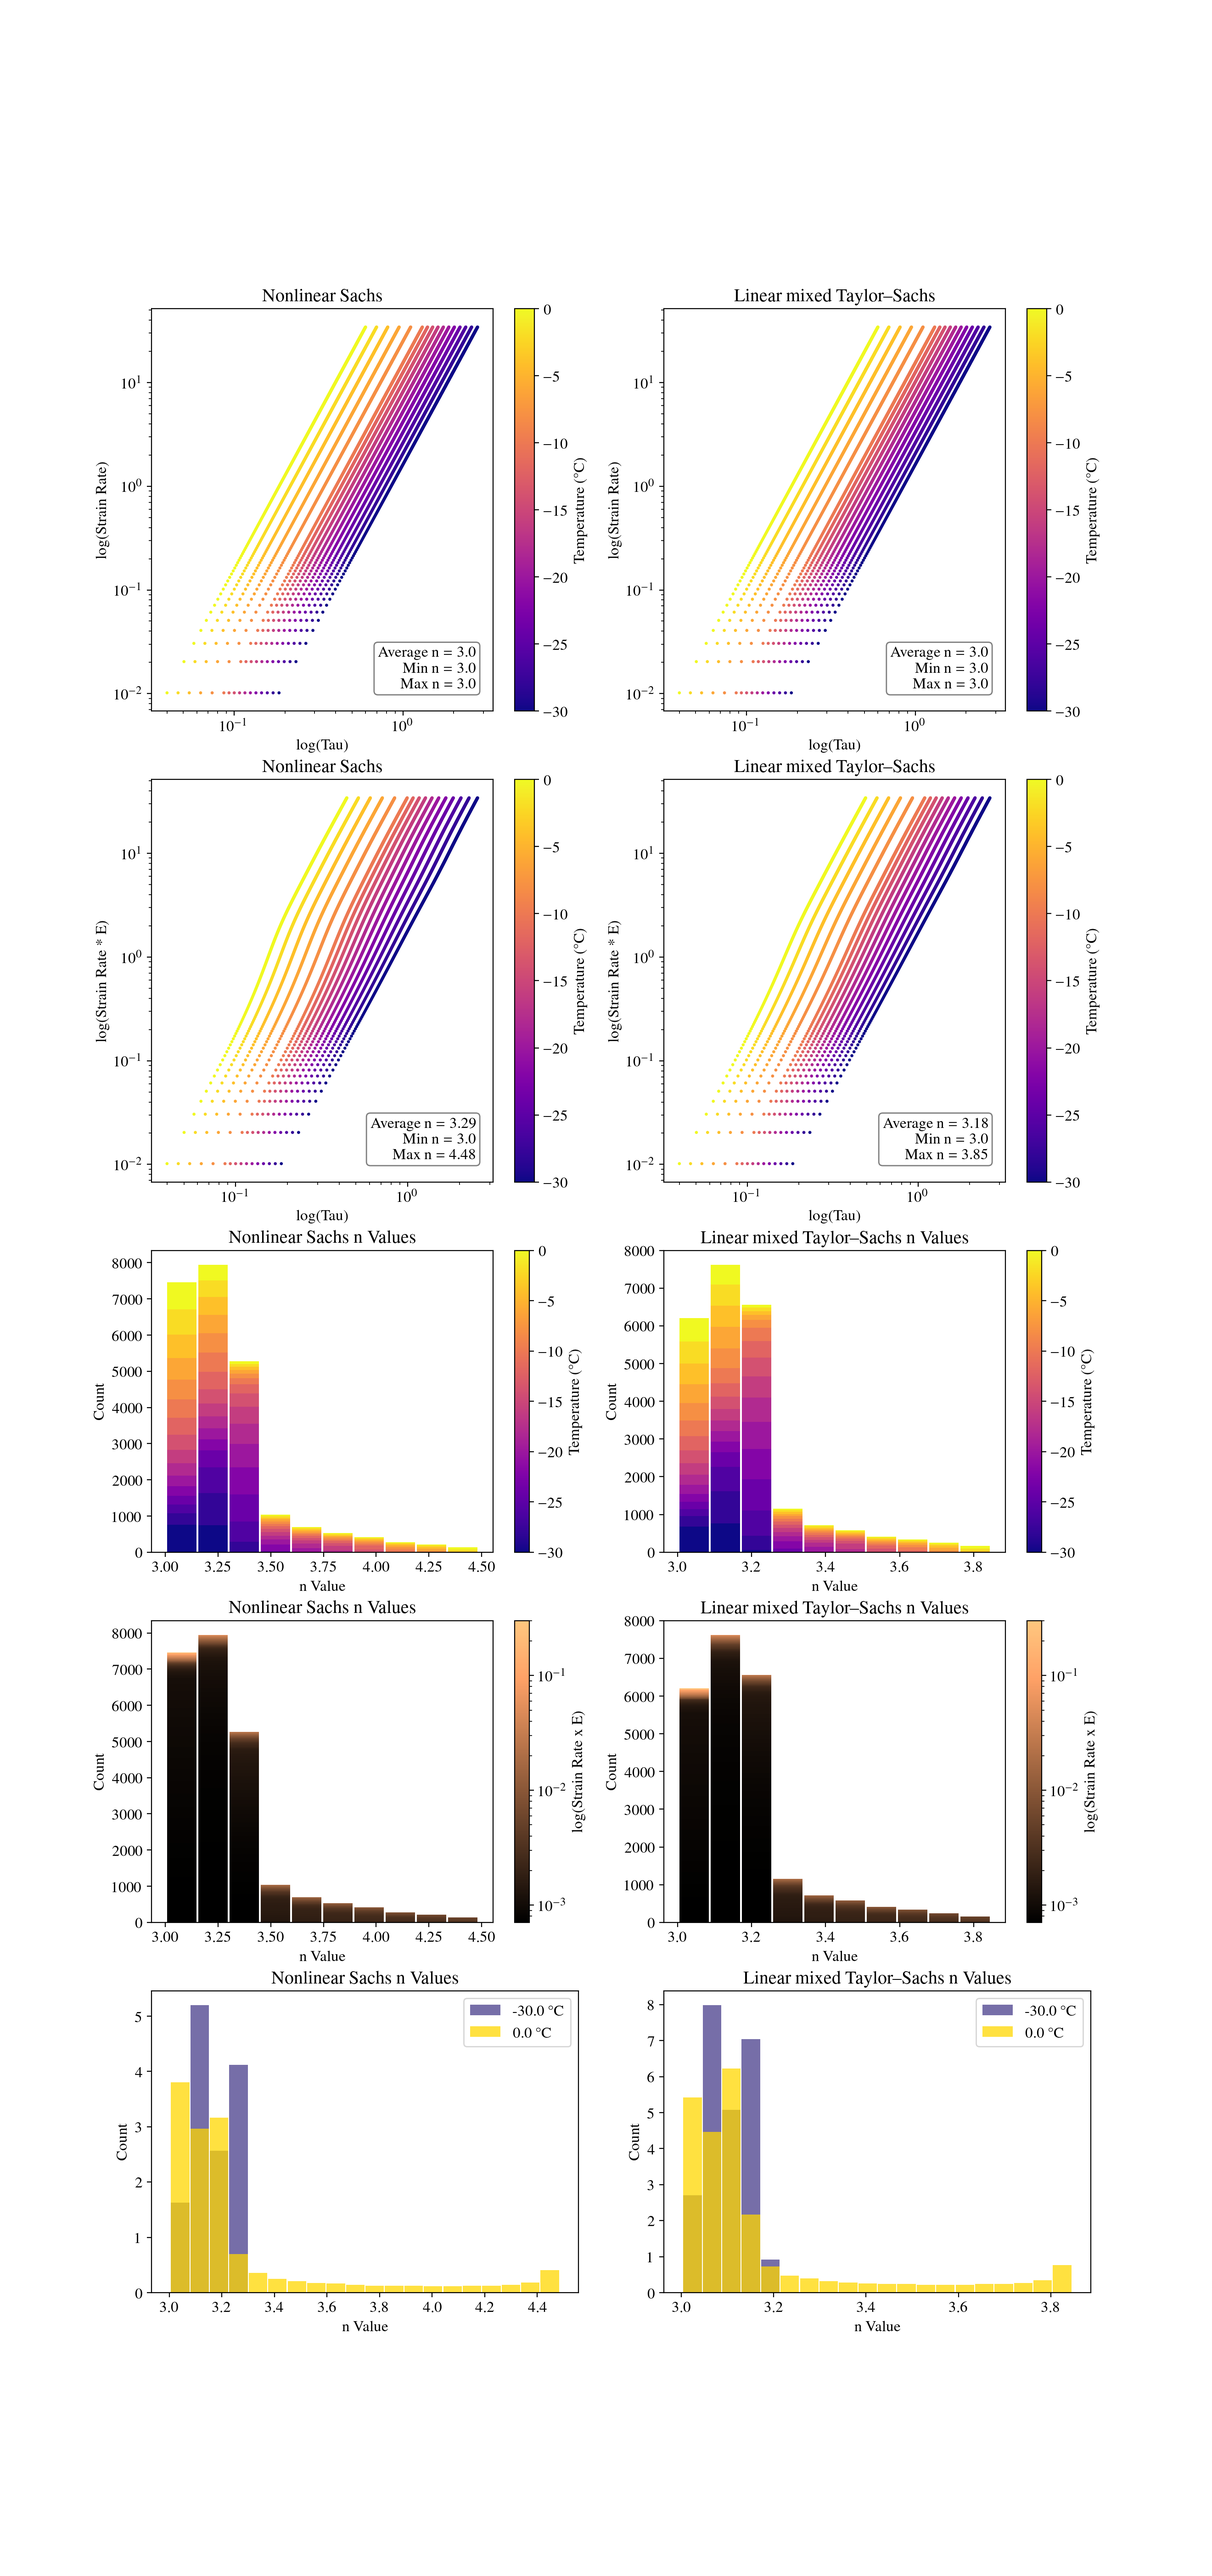
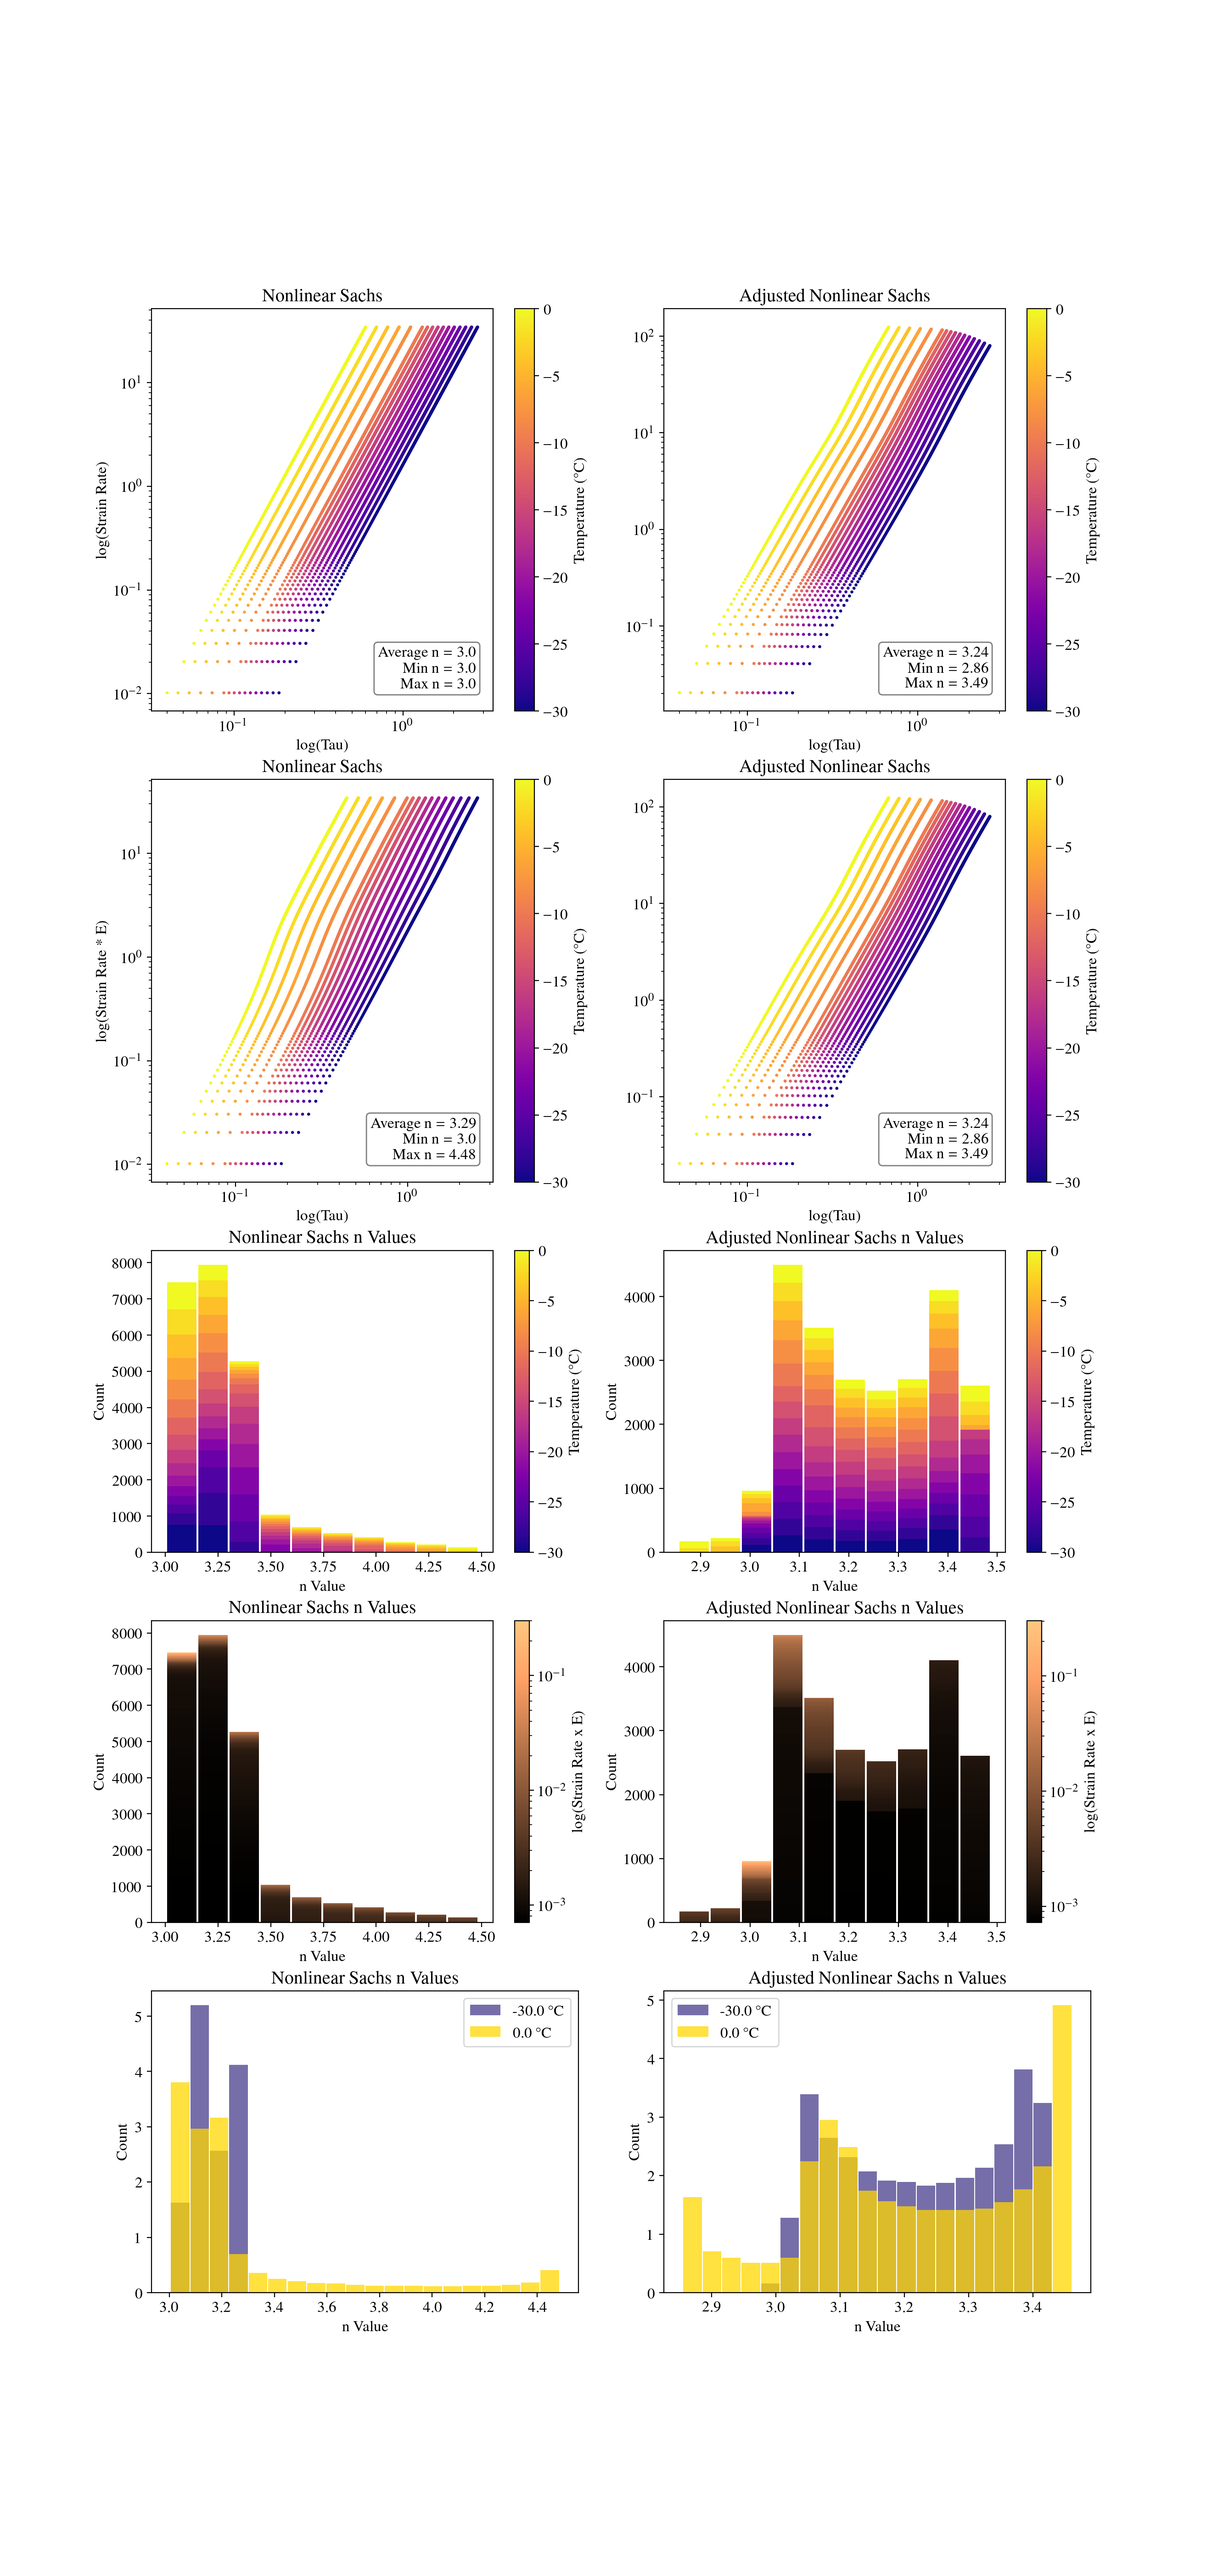
ss working? others error.

diff --git a/L20/rh-comp.py b/L20/rh-comp.py
@@ -49,22 +49,22 @@ def plot_all_enhancement(ex, t, cutoff = True, balanced_average = True, fname = 
   
     plot_enhancement(ax_Elin, fig, "nonlinear_enhancement", ex, t, current_slopes, "Nonlinear Sachs", 
                      False, cutoff = cutoff, balanced_average = balanced_average, observations=observations)
-    plot_enhancement(ax_Enlin, fig, "linear_enhancement", ex, t, current_slopes, "Linear mixed Taylor--Sachs", 
-                     False, cutoff = cutoff, balanced_average = balanced_average, observations=observations)
+    plot_enhancement(ax_Enlin, fig, "E", ex, t, current_slopes, "Adjusted Nonlinear Sachs", 
+                     False, cutoff = cutoff, balanced_average = balanced_average, observations=observations, Auto=True)
     plot_enhancement(ax_Elin_E, fig, "nonlinear_enhancement", ex, t, current_slopes, "Nonlinear Sachs", 
                      cutoff = cutoff, balanced_average = balanced_average, observations=observations)
-    plot_enhancement(ax_Enlin_E, fig, "linear_enhancement", ex, t, current_slopes, "Linear mixed Taylor--Sachs", 
-                     cutoff = cutoff, balanced_average = balanced_average, observations=observations)
+    plot_enhancement(ax_Enlin_E, fig, "E", ex, t, current_slopes, "Adjusted Nonlinear Sachs", 
+                     cutoff = cutoff, balanced_average = balanced_average, observations=observations, Auto=True)
 
 
     n_hist(fig, ax_Elin_n_temp, current_slopes[ax_Elin_E],"Nonlinear Sachs")
-    n_hist(fig, ax_Enlin_n_temp, current_slopes[ax_Enlin_E], "Linear mixed Taylor--Sachs")
+    n_hist(fig, ax_Enlin_n_temp, current_slopes[ax_Enlin_E], "Adjusted Nonlinear Sachs")
 
     n_hist(fig, ax_Elin_n_rate, current_slopes[ax_Elin_E],"Nonlinear Sachs", which_ns = 'avg_st_rate')
-    n_hist(fig, ax_Enlin_n_rate, current_slopes[ax_Enlin_E], "Linear mixed Taylor--Sachs", which_ns = 'avg_st_rate')
+    n_hist(fig, ax_Enlin_n_rate, current_slopes[ax_Enlin_E], "Adjusted Nonlinear Sachs", which_ns = 'avg_st_rate')
 
     extremes_hist(fig, ax_Elin_n_temp_extr, current_slopes[ax_Elin_E],"Nonlinear Sachs")
-    extremes_hist(fig, ax_Enlin_n_temp_extr, current_slopes[ax_Enlin_E], "Linear mixed Taylor--Sachs")
+    extremes_hist(fig, ax_Enlin_n_temp_extr, current_slopes[ax_Enlin_E], "Adjusted Nonlinear Sachs")
 
     os.makedirs("output", exist_ok=True)
     fout = f'output/{fname}.png'
@@ -75,7 +75,8 @@ def plot_all_enhancement(ex, t, cutoff = True, balanced_average = True, fname = 
 
 
 def plot_enhancement(ax, fig, Ei, ex, t, slopes, title, 
-                     use_Eij = True, cutoff = True, balanced_average = True, observations = None):
+                     use_Eij = True, cutoff = True, balanced_average = True, observations = None,
+                     Auto = False):
     results = {
         "ns": [], 
         "temp": [], 
@@ -89,7 +90,7 @@ def plot_enhancement(ax, fig, Ei, ex, t, slopes, title,
     )
 
     for x in ex:
-        ax_data = generate_plot(ax, Ei, x, t, slopes, use_Eij = use_Eij, cutoff=cutoff, balanced_average = balanced_average)
+        ax_data = generate_plot(ax, Ei, x, t, slopes, use_Eij = use_Eij, cutoff=cutoff, balanced_average = balanced_average, Auto=Auto)
 
     #if observations != None:
     #    observations.plot_values(ax)
@@ -128,7 +129,7 @@ def extremes_hist(fig, ax, ns, Etype, which_ns = 'temp'):
     for x in range(bin_count + 1):
         bins.append(min_datas + (x * ((max_datas - min_datas) / bin_count)))
 
-    print("TEMPS", temps)
+    print("E", datas)
 
 
     ax.hist(datas[0], density=True, rwidth=0.95, stacked = False, alpha=.75, color="darkslateblue", label=str(temps[0]) + " °C", bins = bins)
@@ -165,7 +166,7 @@ def n_hist(fig, ax, ns, Etype, which_ns = 'temp'):
         norm = colors.LogNorm(min_ns, max_ns)
         c_label = AXIS_SCALE + "(Strain Rate x E)"
 
-
+    print(datas)
     h, bins, patches = ax.hist(datas, histtype='bar', rwidth=0.95, stacked = True)
     for i, patch in enumerate(patches):
         for bar in patch:
@@ -183,20 +184,24 @@ def n_hist(fig, ax, ns, Etype, which_ns = 'temp'):
     fig.colorbar(colorbar_colors, ax=ax, label = c_label)
 
 
-def generate_plot(ax, Eij, ex, t, slopes, use_Eij = True, cutoff = True, balanced_average = True):
+def generate_plot(ax, Eij, ex, t, slopes, use_Eij = True, cutoff = True, balanced_average = True, Auto= False):
     x = 0
-    if (ex.exptype == "ss"):
+    if (ex.exptype == "ss" and not Auto):
         x = 4 # gets the diagonal part of x-y in the direction of the shear
     df = ex.get_dataframe(x)
     df.strain = np.abs(df.strain)
 
-    y_ = df.strain / t # strain rate 
-    if use_Eij:
-        ax.set_ylabel(AXIS_SCALE + '(Strain Rate * E)')
-        x_ = reverse_glens(df.strain, ex.temp, t, E=df[Eij])
+    if (Auto):
+        y_ = df.E
+        x_ = reverse_glens(df.strain, ex.temp, t, E=df['nonlinear_enhancement'])
     else:
-        ax.set_ylabel(AXIS_SCALE + '(Strain Rate)')
-        x_ = reverse_glens(df.strain, ex.temp, t)
+        y_ = df.strain / t # strain rate 
+        if use_Eij:
+            ax.set_ylabel(AXIS_SCALE + '(Strain Rate * E)')
+            x_ = reverse_glens(df.strain, ex.temp, t, E=df[Eij])
+        else:
+            ax.set_ylabel(AXIS_SCALE + '(Strain Rate)')
+            x_ = reverse_glens(df.strain, ex.temp, t)
 
     temps = [ex.temp] * len(df.strain)
 

diff --git a/L20/experiment_generation.py b/L20/experiment_generation.py
@@ -178,35 +178,28 @@ class GeneratedExperiment(Experiment) :
         
         eps = []
         if self.exptype == "ss":
-            for i in range(TIMESTEPS):
+            for i in range(TIMESTEPS+1):
                 tau_base = [[0,0,1], [0,0,0], [1, 0,0]]
                 tau_base[2][0] = stress[i]
                 tau_base[0][2] = stress[i]
                 tau.append(tau_base)
 
-                dimension_of_interest = [0, 2]
+            dimension_of_interest = [0, 2]
         else:
-            for i in range(TIMESTEPS):
+            for i in range(TIMESTEPS+1):
                 tau_base = [[0,0,0], [0,0,0], [0,0,1]]
                 tau_base[2][2] = stress[i]
                 tau.append(tau_base)
-                dimension_of_interest = [2, 2]
+            dimension_of_interest = [2, 2]
 
 
-        for i in range(1, TIMESTEPS):
-            print(tau[i])
-            print(m1,m2,m3)
-            print(Eij_lin[i])
-            print(calc_a(c_to_K(self.temp)))
+        for i in range(TIMESTEPS+1):
             eps.append(sf.rheo_fwd_orthotropic(tau[i], 
                                                calc_a(c_to_K(self.temp)), 
-                                               3, m1,m2,m3, 
-                                               Eij_lin[i])[dimension_of_interest[0], dimension_of_interest[1]])
+                                               3, m1[i],m2[i],m3[i], 
+                                               Eij_lin[i])
+                                               [dimension_of_interest[0], dimension_of_interest[1]])
 
-
-        #eps = sf.rheo_fwd_orthotropic(tau, calc_a(c_to_K(self.temp)), 3, m1,m2,m3, Eij_lin)
-        
-        #print(eps)
 
         #print(vert[0])
         print(Eij_lin[:,m])
@@ -217,6 +210,7 @@ class GeneratedExperiment(Experiment) :
             "linear_enhancement": Eij_lin[:,m], 
             "nonlinear_enhancement": Eij_nlin[:,m], 
             "eigval": eigvals[:,m%3],
+            "E": eps,
             "temp": temp,
             "exp": expt,
             }
